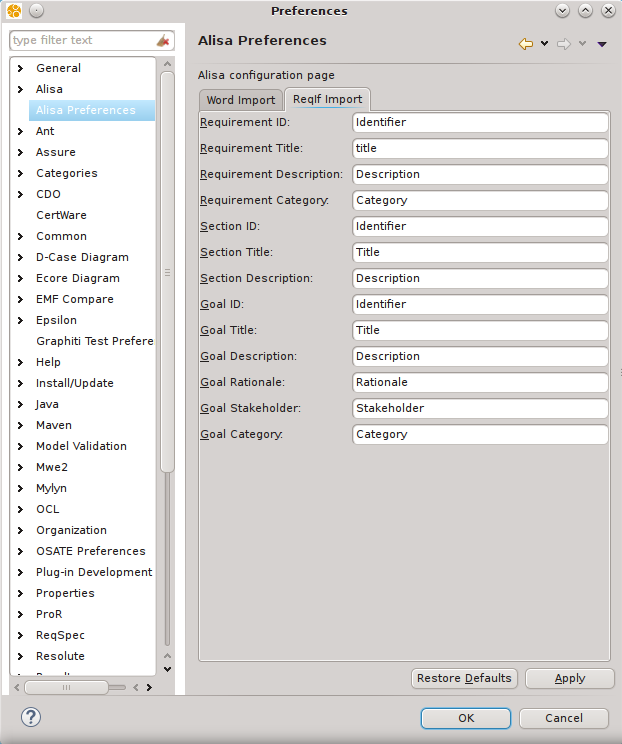
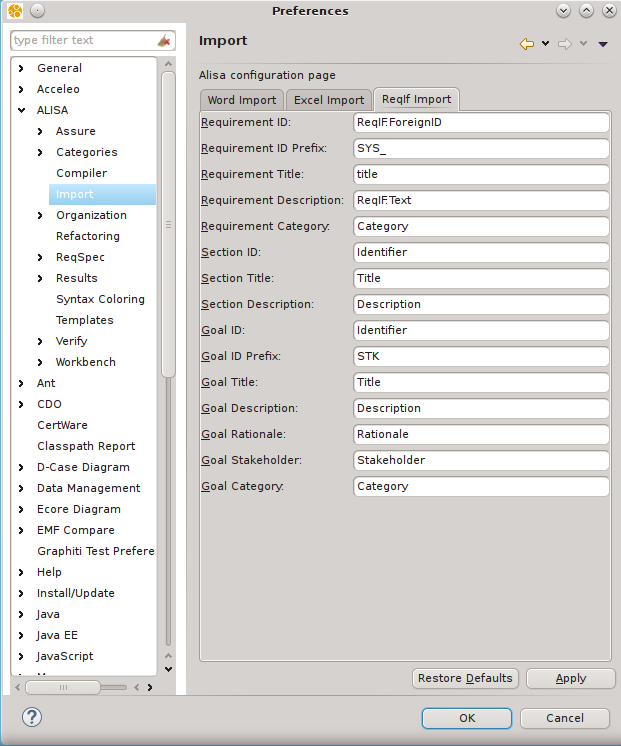
Add documentation about identifiers and prefix

Changed region(s): [[0.0, 0.0, 1.0, 1.0], [0.8873, 0.0, 1.0, 0.0309], [0.8261, 0.0309, 0.8567, 0.0618]]

diff --git a/org.osate.alisa.help/contents/09-ReqIFBridge.html b/org.osate.alisa.help/contents/09-ReqIFBridge.html
@@ -176,7 +176,14 @@ how to associate an an ReqIF attribute with a ReqSpec attribute.
 This preference mechanism is available within the Eclipse preferences, as shown
 below. For each property on ReqSpec object, the user can specify
 the corresponding ReqIF attribute. The attribute
-is designated by its long name.
+is designated by its long name. If you do not specify
+an identifier attribute, the bridge will then try to build identifiers
+automatically. If you specify a mapping between ReqIF and ReqSpec, you
+have to make sure that identifiers are unique in the document.
+</p>
+<p>
+Finally, you add a prefix to the identifier in the preferences.
+It can help to distinguish stakeholders and system requirements.
 </p>
 <p>
 <div class="image" >

diff --git a/org.osate.alisa.help/website/09-ReqIFBridge.html b/org.osate.alisa.help/website/09-ReqIFBridge.html
@@ -251,7 +251,14 @@
 			This preference mechanism is available within the Eclipse preferences, as shown
 			below. For each property on ReqSpec object, the user can specify
 			the corresponding ReqIF attribute. The attribute
-			is designated by its long name.
+			is designated by its long name. If you do not specify
+			an identifier attribute, the bridge will then try to build identifiers
+			automatically. If you specify a mapping between ReqIF and ReqSpec, you
+			have to make sure that identifiers are unique in the document.
+			</p>
+			<p>
+			Finally, you add a prefix to the identifier in the preferences.
+			It can help to distinguish stakeholders and system requirements.
 			</p>
 			<p>
 			<div class="image" >
